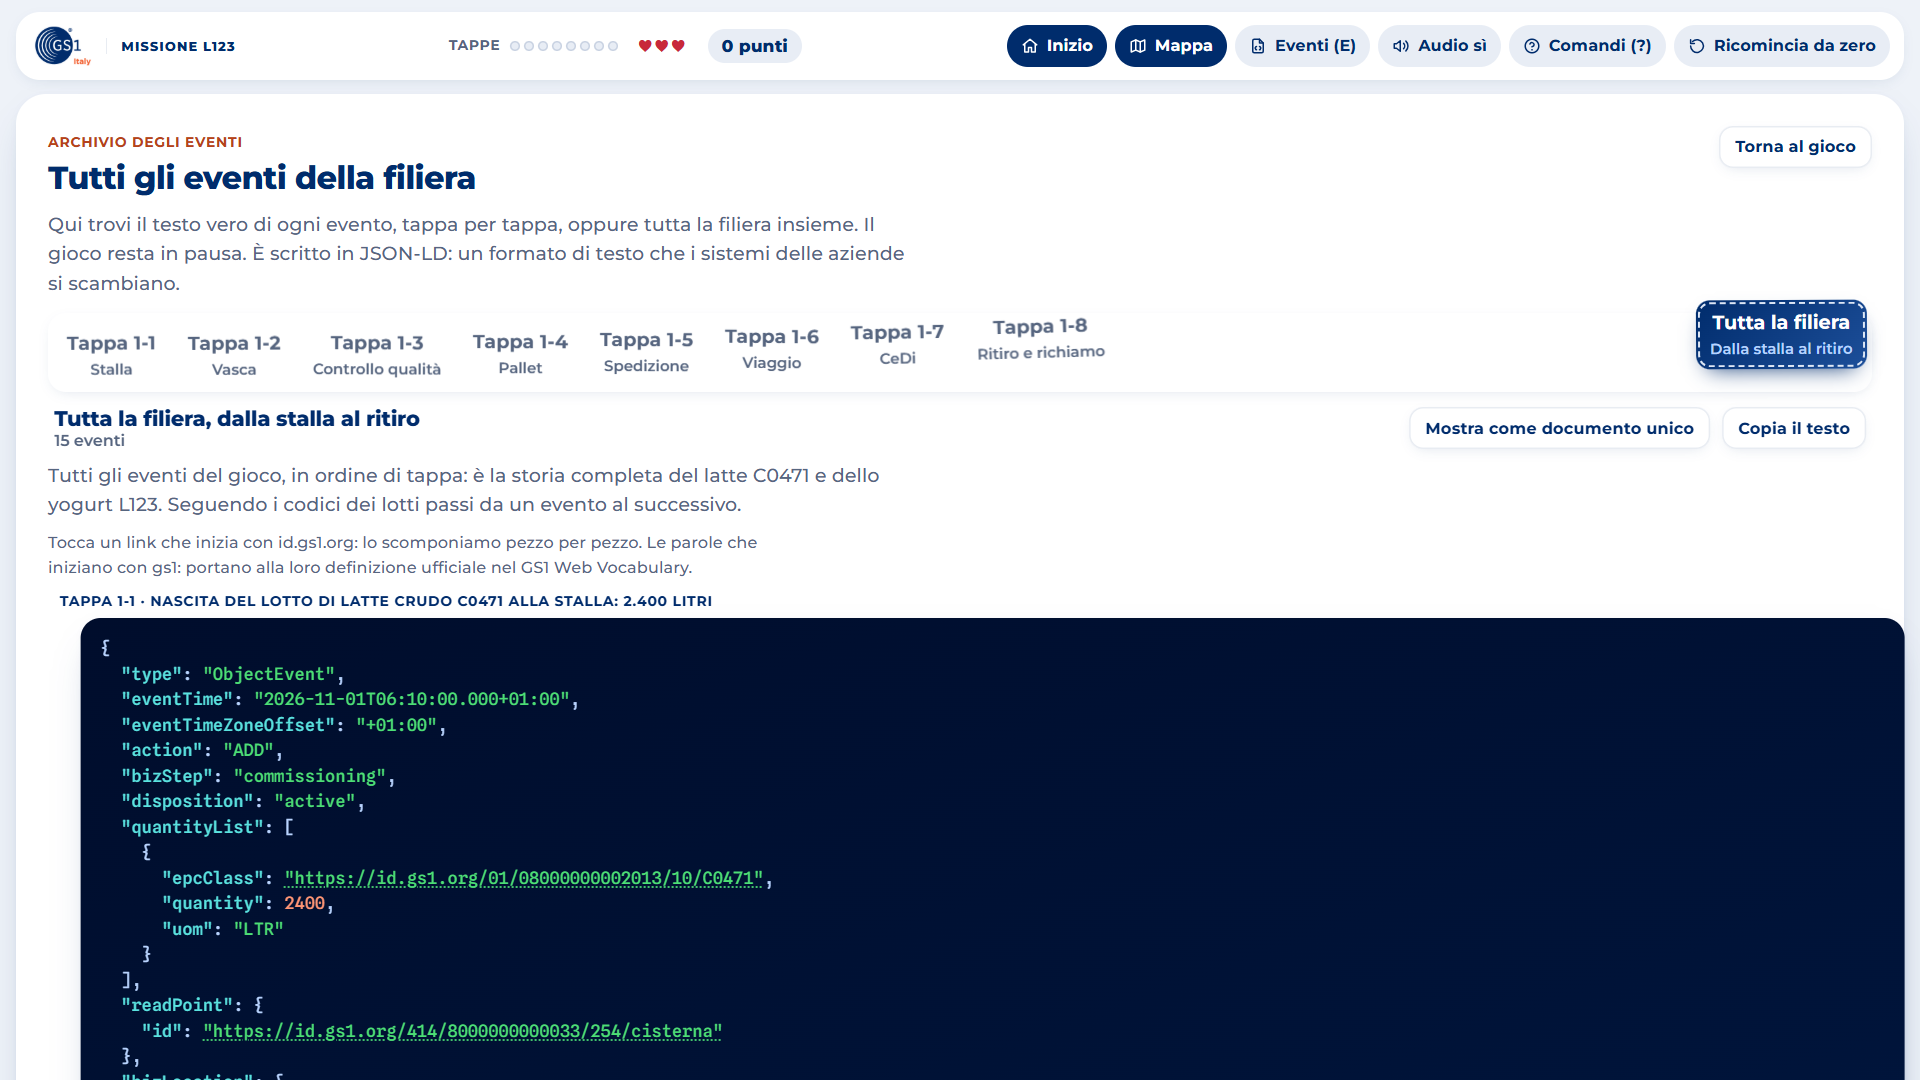
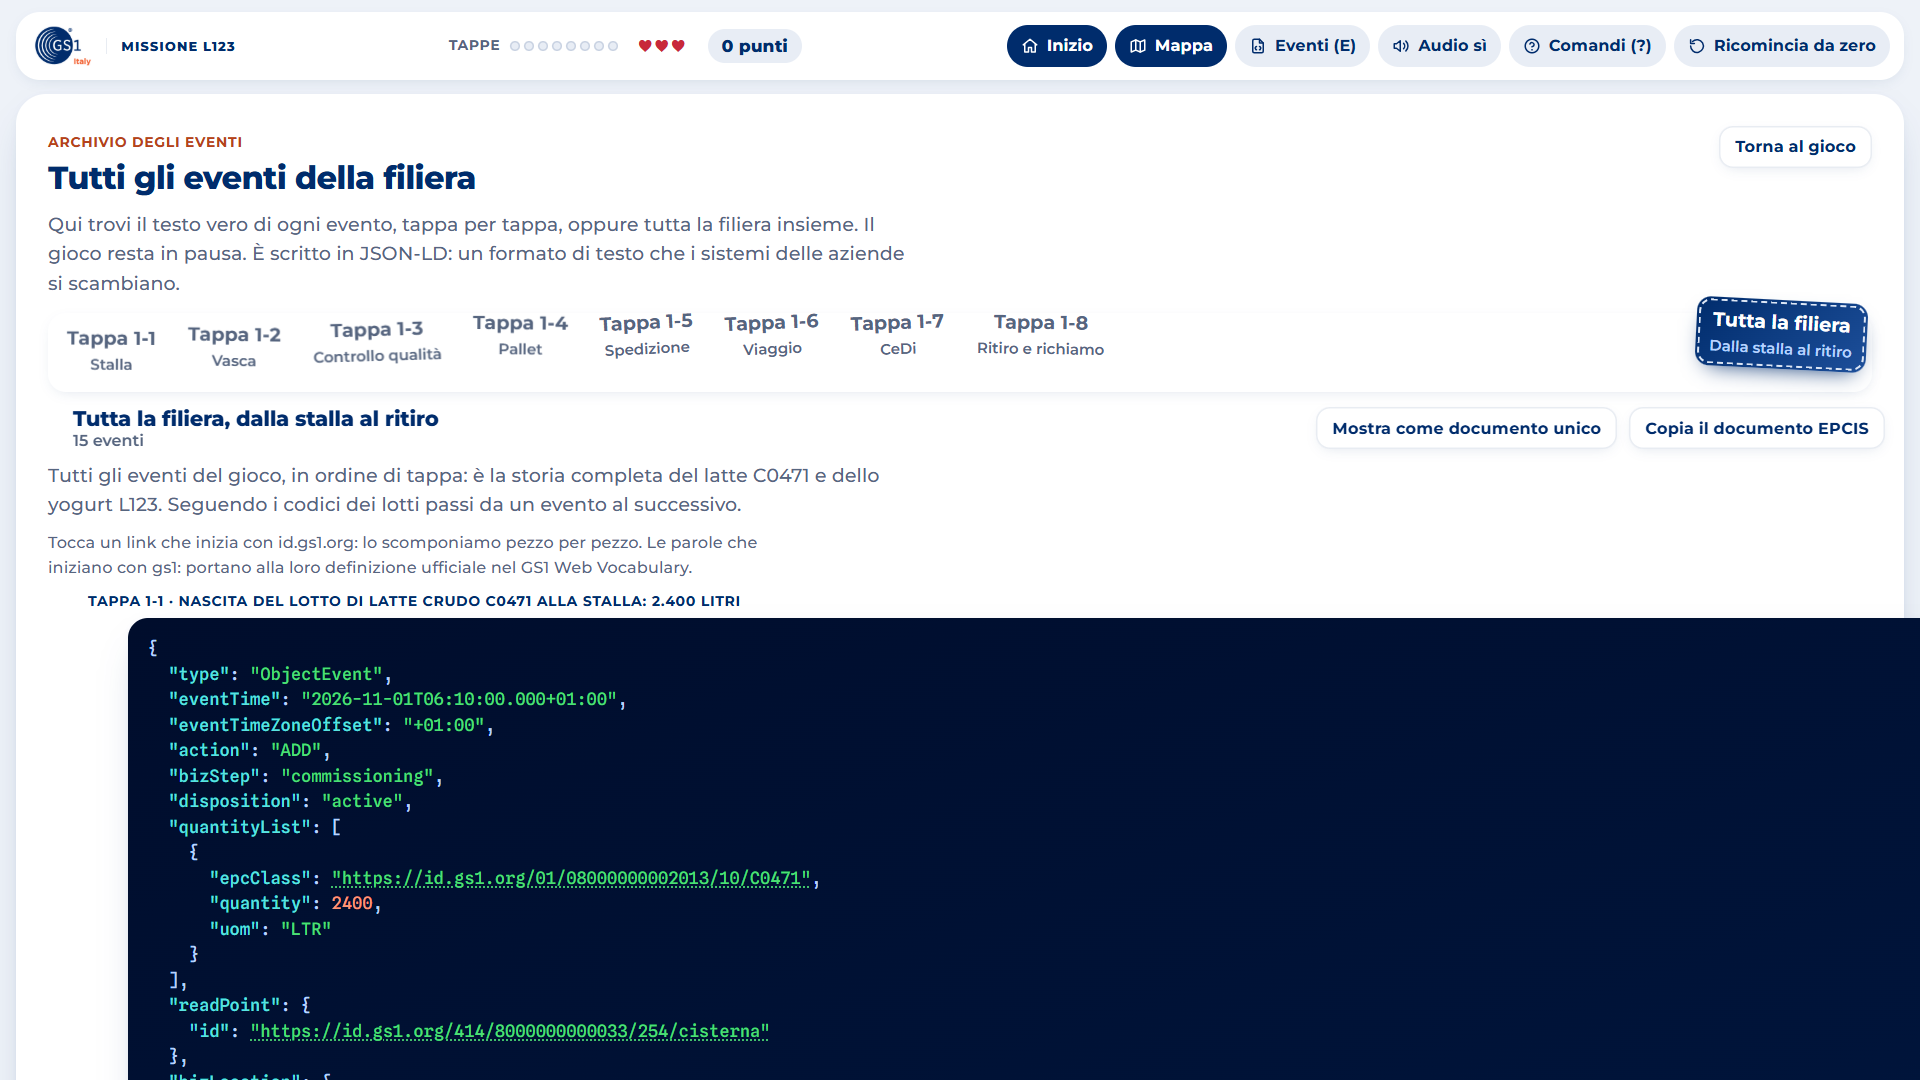
Archivio: «Copia» copia sempre un EPCISDocument completo (oggetto JSON), compatibile con OpenEPCIS

diff --git a/tests/unit/events.test.js b/tests/unit/events.test.js
@@ -22,6 +22,15 @@ describe("schema EPCIS 2.0", () => {
     expect(ok, JSON.stringify(validate.errors, null, 1)).toBe(true);
   });
 
+  // Il pulsante «Copia» dell'archivio copia sempre un documento: un oggetto JSON, mai una lista di eventi
+  // (OpenEPCIS rifiuta una lista alla radice). Vale anche per «Tutta la filiera», con tutti gli eventi insieme.
+  it("tutta la filiera in un solo EPCISDocument: oggetto JSON valido", () => {
+    const doc = toDocument(files.flatMap(load));
+    expect(Array.isArray(doc)).toBe(false);
+    expect(typeof doc).toBe("object");
+    expect(validate(doc), JSON.stringify(validate.errors, null, 1)).toBe(true);
+  });
+
   it.each(files)("%s: chiavi GS1 con cifra di controllo corretta", f => {
     for (const { ai, key } of digitalLinkKeys(readFileSync("src/data/events/" + f, "utf8"))) expect(isValidKey(key), `AI ${ai} ${key}`).toBe(true);
   });

diff --git a/src/ui/archive.js b/src/ui/archive.js
@@ -74,7 +74,9 @@ function select(id, focus) {
   $("#archDoc").onclick = () => { docMode = !docMode; select(current.id); $("#archDoc").focus(); };
   $("#archCopy").onclick = async () => {
     const out = $("#archCopied");
-    const text = JSON.stringify(docMode ? toDocument(current.events) : current.events, null, 2);
+    // Si copia sempre un EPCISDocument completo (un oggetto, non una lista di eventi):
+    // è il formato che strumenti come OpenEPCIS si aspettano.
+    const text = JSON.stringify(toDocument(current.events), null, 2);
     try { await navigator.clipboard.writeText(text); out.textContent = t("archive.copied"); }
     catch { out.textContent = t("archive.copyFail"); }
   };
